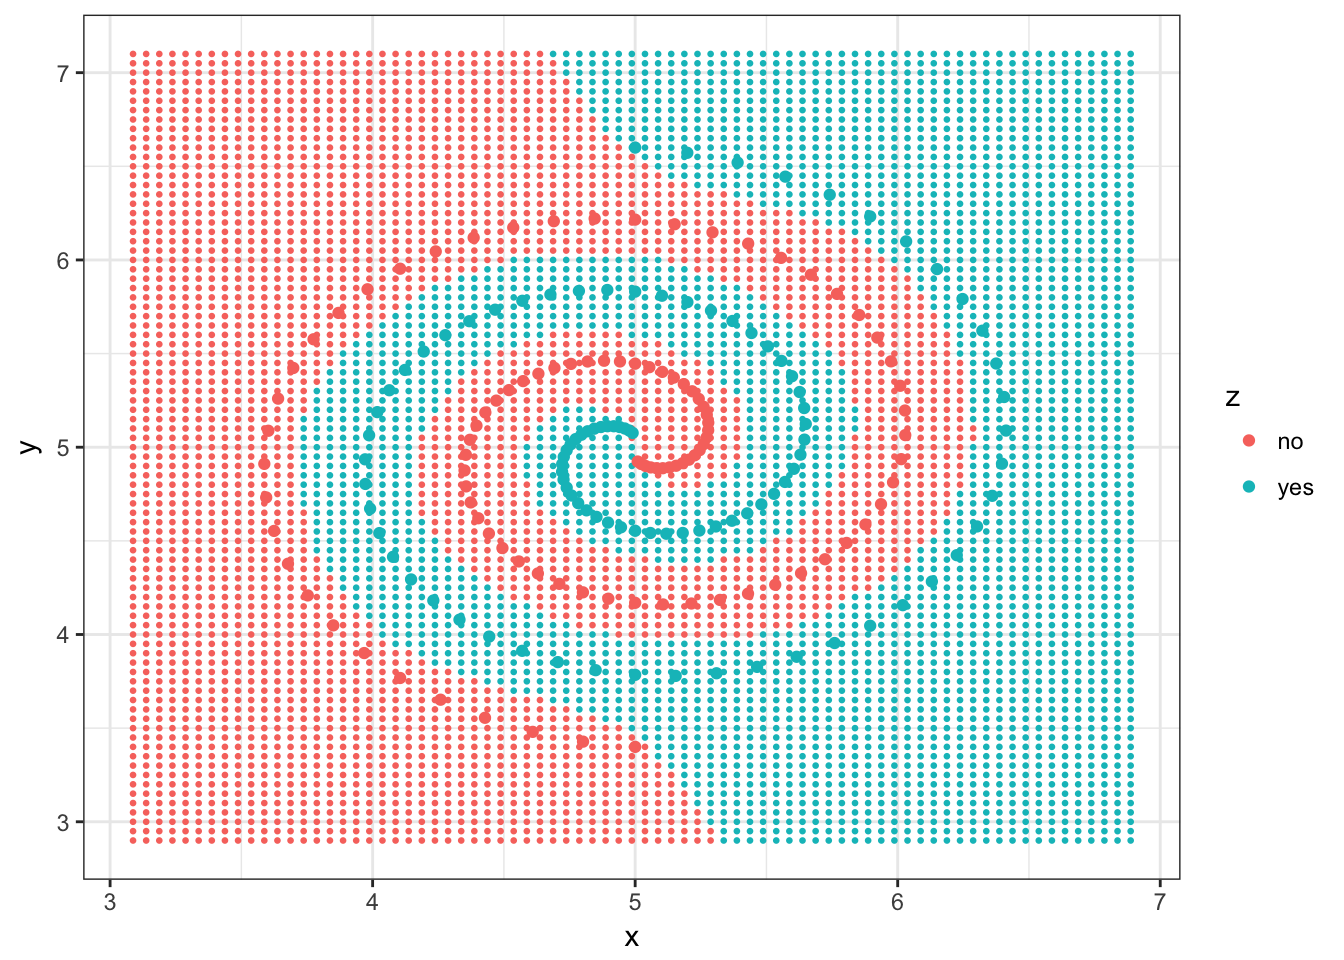
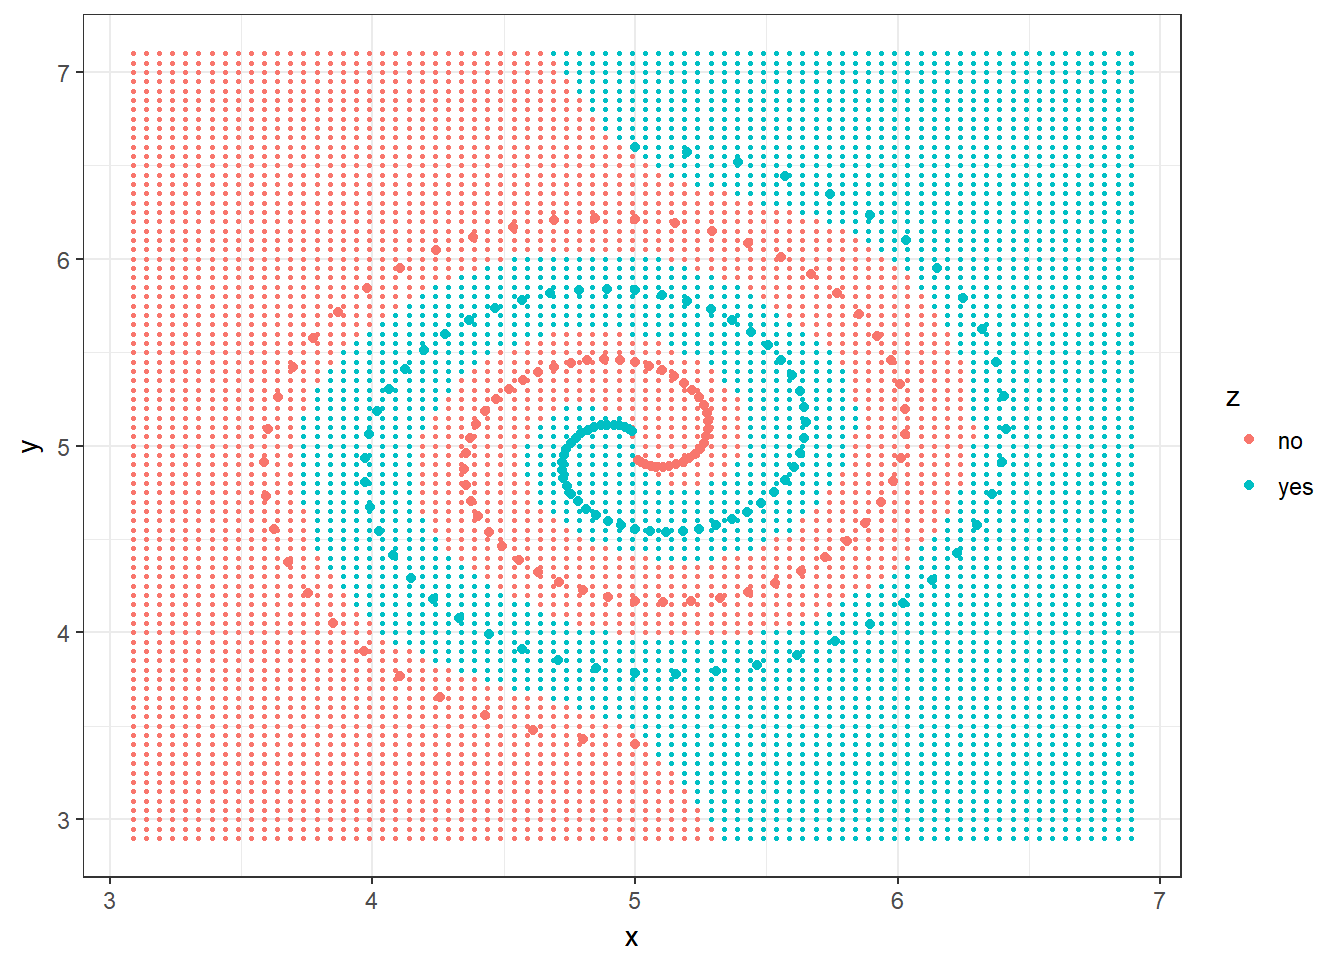
update SVM method

diff --git a/content/post/2018-04-30-helix-nn.html b/content/post/2018-04-30-helix-nn.html
@@ -27,16 +27,16 @@ dat &lt;- rbind(data.frame(x=x0,y=y0,z=z0), data.frame(x=x1,y=y1,z=z1))</code></
 <p>数据例子</p>
 <pre class="r"><code>dat[sample(nrow(dat), size = 10),]</code></pre>
 <pre><code>##            x        y   z
-## 127 5.150400 6.190538  no
-## 179 5.147250 5.371911  no
-## 42  4.123014 5.412678 yes
-## 97  4.940707 5.107853 yes
-## 168 4.519383 5.305009  no
-## 85  4.721592 4.868991 yes
-## 174 4.881394 5.461940  no
-## 108 3.850157 4.048767  no
-## 176 5.000000 5.446154  no
-## 54  5.288836 5.729517 yes</code></pre>
+## 70  5.368602 4.607478 yes
+## 133 5.853492 5.706070  no
+## 129 5.430423 6.087123  no
+## 83  4.739211 4.784256 yes
+## 151 5.000000 4.169231  no
+## 170 4.631398 5.392522  no
+## 46  4.466472 5.734339 yes
+## 141 5.936425 4.695737  no
+## 112 3.594574 4.731901  no
+## 36  3.990417 4.671967 yes</code></pre>
 <p>神经网络设置，引用自<a href="http://selbydavid.com/2018/01/09/neural-network/" class="uri">http://selbydavid.com/2018/01/09/neural-network/</a>。</p>
 <pre class="r"><code>sigmoid &lt;- function(x) 1 / (1 + exp(-x))
 
@@ -78,6 +78,7 @@ train &lt;- function(x, y, hidden = 5, learn_rate = 1e-2, iterations = 1e4) {
 z &lt;- dat$z == &#39;yes&#39;
 mnet5 &lt;- train(x, z, hidden = 30, iterations = 1e5)
 mean((mnet5$output &gt; .5) == z)</code></pre>
+<pre><code>## [1] 0.67</code></pre>
 <p>图示</p>
 <pre class="r"><code>grid &lt;- expand.grid(x = seq(min(dat$x) - .5,
                              max(dat$x) + .5,
@@ -97,12 +98,14 @@ ggplot(dat) + aes(x, y, colour = z) +
   geom_point() +
   labs(x = &#39;x&#39;, y = &#39;y&#39;) +
   theme_bw()</code></pre>
+<p><img src="/post/2018-04-30-helix-nn_files/figure-html/unnamed-chunk-6-1.png" width="672" /></p>
 <div class="section level2">
 <h2>跑偏</h2>
-<p>一般来说，增加隐藏节点数可以提高正确率，0.7左右的正确率比起线性分类器（甚至Logistic Regression）那可怜的正确率也算差强人意了。 不过在这种非线性且光滑函数的情形，可以想象的到一些非参数方法会有不错的效果。以GAM为例：</p>
+<p>一般来说，增加隐藏节点数可以提高正确率，0.7左右的正确率比起线性分类器（甚至Logistic Regression）那可怜的正确率也算差强人意了。
+不过在这种非线性且光滑函数的情形，可以想象的到一些非参数方法会有不错的效果。以GAM为例：</p>
 <pre class="r"><code>library(mgcv)</code></pre>
 <pre><code>## Loading required package: nlme</code></pre>
-<pre><code>## This is mgcv 1.8-24. For overview type &#39;help(&quot;mgcv-package&quot;)&#39;.</code></pre>
+<pre><code>## This is mgcv 1.8-23. For overview type &#39;help(&quot;mgcv-package&quot;)&#39;.</code></pre>
 <pre class="r"><code>dat$zz &lt;- ifelse(dat$z == &#39;yes&#39;, 1, 0)
 fit_gam &lt;- gam(zz~s(x,y), data = dat)
 p_gam &lt;- predict.gam(fit_gam)
@@ -124,8 +127,9 @@ ggplot(dat) + aes(x, y, colour = z) +
 <div id="20180702" class="section level2">
 <h2>跑偏更新20180702</h2>
 <p>研究了一下业界非常流行的评分卡模型（scorecard），在此数据集上表现如下：</p>
-<pre class="r"><code>library(scorecard)
-bins &lt;- woebin(dat, y = &#39;zz&#39;)
+<pre class="r"><code>library(scorecard)</code></pre>
+<pre><code>## Warning: package &#39;scorecard&#39; was built under R version 3.5.2</code></pre>
+<pre class="r"><code>bins &lt;- woebin(dat, y = &#39;zz&#39;)
 dat_woe &lt;- woebin_ply(dat, bins = bins)
 fit_woe &lt;- glm(zz ~ .-z_woe, family = binomial(), data = dat_woe)
 p_woe &lt;- predict(fit_woe, dat_woe, type = &#39;response&#39;)
@@ -144,4 +148,32 @@ ggplot(dat) + aes(x, y, colour = z) +
   labs(x = &#39;x&#39;, y = &#39;y&#39;) +
   theme_bw()</code></pre>
 <p><img src="/post/2018-04-30-helix-nn_files/figure-html/unnamed-chunk-8-1.png" width="672" /></p>
+</div>
+<div id="20181215" class="section level2">
+<h2>跑偏20181215</h2>
+<p>听同事说SVM也能达到样条函数的结果，测试如下：</p>
+<pre class="r"><code>library(e1071)</code></pre>
+<pre><code>## Warning: package &#39;e1071&#39; was built under R version 3.5.2</code></pre>
+<pre><code>## 
+## Attaching package: &#39;e1071&#39;</code></pre>
+<pre><code>## The following object is masked _by_ &#39;.GlobalEnv&#39;:
+## 
+##     sigmoid</code></pre>
+<pre class="r"><code>fit_svm &lt;- svm(zz~x+y, data = dat, kenel = &#39;polynomial&#39;,
+    degree = 10)
+p_svm &lt;- predict(fit_svm)
+table(dat$zz, p_svm &gt;= .5)/nrow(dat)</code></pre>
+<pre><code>##    
+##     FALSE  TRUE
+##   0 0.325 0.175
+##   1 0.175 0.325</code></pre>
+<pre class="r"><code>p_grid &lt;- predict(fit_svm, newdata = grid)
+grid$z &lt;- factor((p_grid &gt;= 0.5)*1, labels = c(&#39;no&#39;, &#39;yes&#39;))
+ggplot(dat) + aes(x, y, colour = z) +
+  geom_point(data = grid, size = .5) +
+  geom_point() +
+  labs(x = &#39;x&#39;, y = &#39;y&#39;) +
+  theme_bw()</code></pre>
+<p><img src="/post/2018-04-30-helix-nn_files/figure-html/unnamed-chunk-9-1.png" width="672" />
+即使更换了kenel，效果也无明显改变。</p>
 </div>
